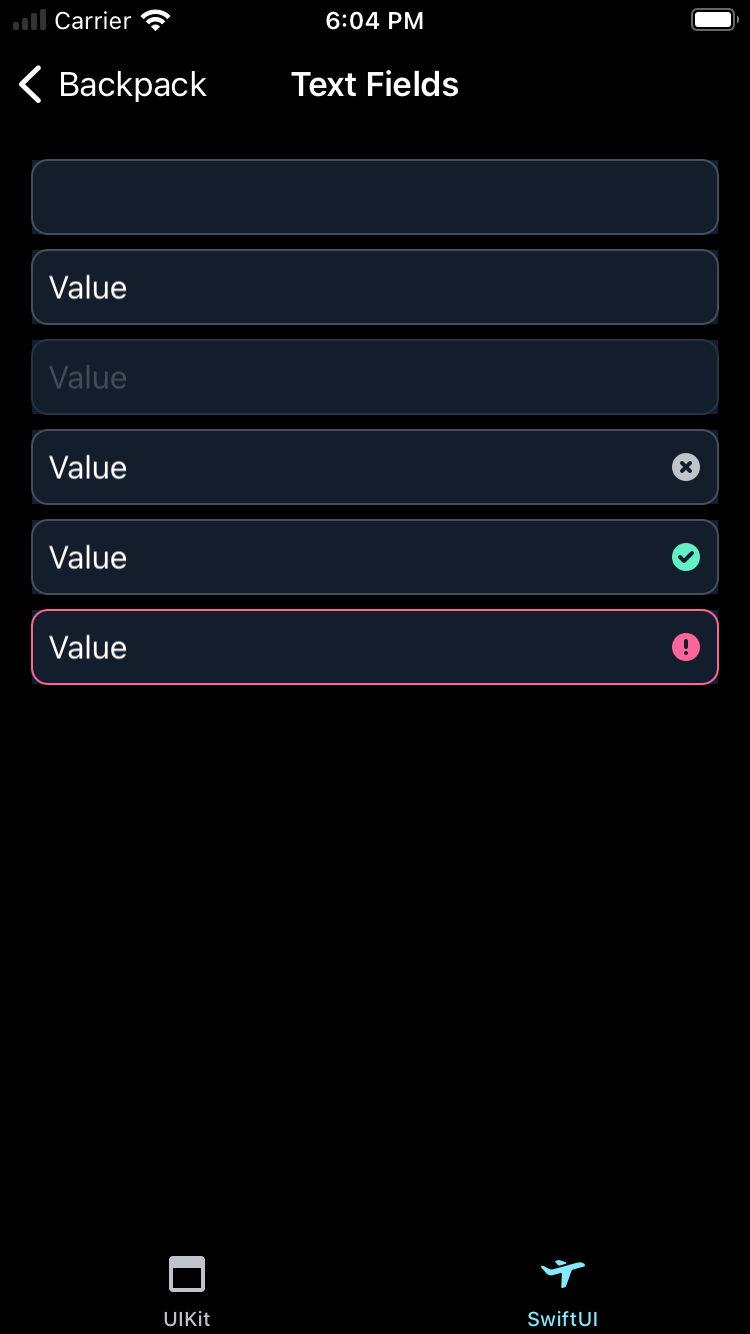
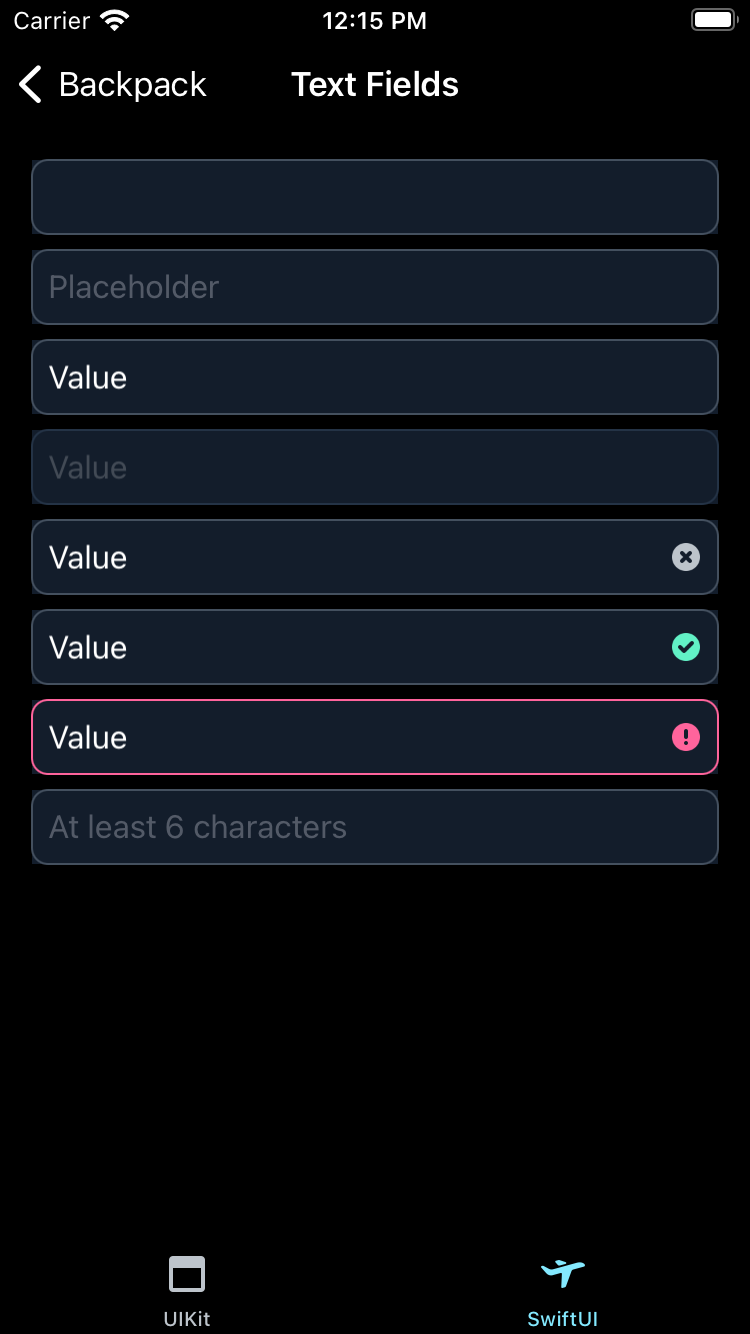
Added more examples and fixed some accessibility issues

diff --git a/Backpack-SwiftUI/TextField/Classes/BPKTextField.swift b/Backpack-SwiftUI/TextField/Classes/BPKTextField.swift
@@ -50,6 +50,7 @@ public struct BPKTextField: View {
             .foregroundColor(state.textColor)
             .padding(.md)
             .background(.surfaceDefaultColor)
+            .clipShape(RoundedRectangle(cornerRadius: .sm))
             .outline(state.borderColor, cornerRadius: .sm)
             .overlay(accessory)
             .disabled(state.isDisabled)
@@ -60,17 +61,19 @@ public struct BPKTextField: View {
             Spacer()
             if let icon = state.icon {
                 if case let .clear(accessibilityLabel, action) = state {
-                    BPKIconView(icon.icon)
-                        .foregroundColor(icon.color)
+                    Button(action: action) {
+                        BPKIconView(icon.icon)
+                            .foregroundColor(icon.color)
+                    }
                         .accessibilityLabel(accessibilityLabel)
-                        .onTapGesture(perform: action)
                 } else {
                     BPKIconView(icon.icon)
                         .foregroundColor(icon.color)
+                        .accessibilityHidden(true)
                 }
             }
         }
-        .padding(.md)
+        .padding(.trailing, .md)
     }
     
     public func inputState(_ state: State) -> BPKTextField {
@@ -102,5 +105,6 @@ struct BPKTextField_Previews: PreviewProvider {
                 .inputState(.valid)
         }
         .padding()
+        .background(.coreEcoColor)
     }
 }

diff --git a/Example/Backpack/SwiftUI/Components/TextField/TextFieldExampleView.swift b/Example/Backpack/SwiftUI/Components/TextField/TextFieldExampleView.swift
@@ -22,22 +22,34 @@ import Backpack_SwiftUI
 
 struct TextFieldExampleView: View {
     @State var text = "Value"
+    @State var validationFieldText = ""
     
     var body: some View {
         ScrollView {
             VStack {
                 BPKTextField(.constant(""))
+                BPKTextField(placeholder: "Placeholder", .constant(""))
                 BPKTextField($text)
                 BPKTextField($text)
                     .inputState(.disabled)
                 BPKTextField($text)
-                    .inputState(text.isEmpty ? .default : .clear(accessibilityLabel: "Clear") { text = "" })
+                    .inputState(text.isEmpty ? .default : .clear(accessibilityLabel: "Clear Field") { text = "" })
                 BPKTextField($text)
                     .inputState(.valid)
                 BPKTextField($text)
                     .inputState(.error)
+                BPKTextField(placeholder: "At least 6 characters", $validationFieldText)
+                    .inputState(validateState())
             }
             .padding()
+        }
+    }
+    
+    private func validateState() -> Backpack_SwiftUI.BPKTextField.State {
+        switch validationFieldText.count {
+        case 0: return .default
+        case 1...5: return .error
+        default: return .valid
         }
     }
 }
